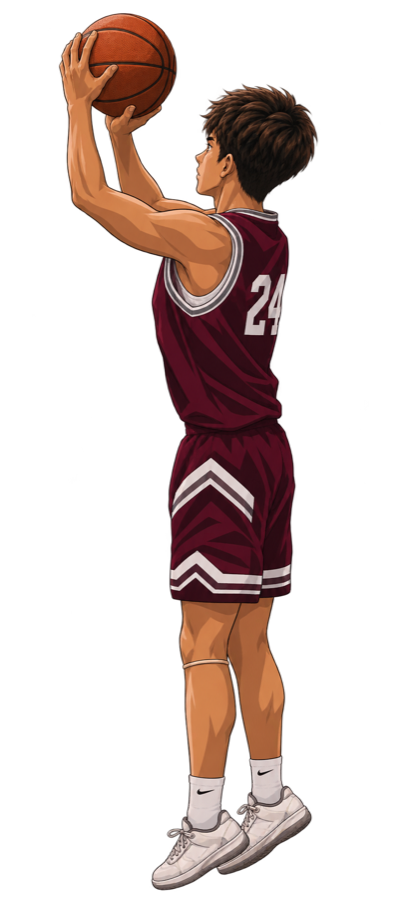
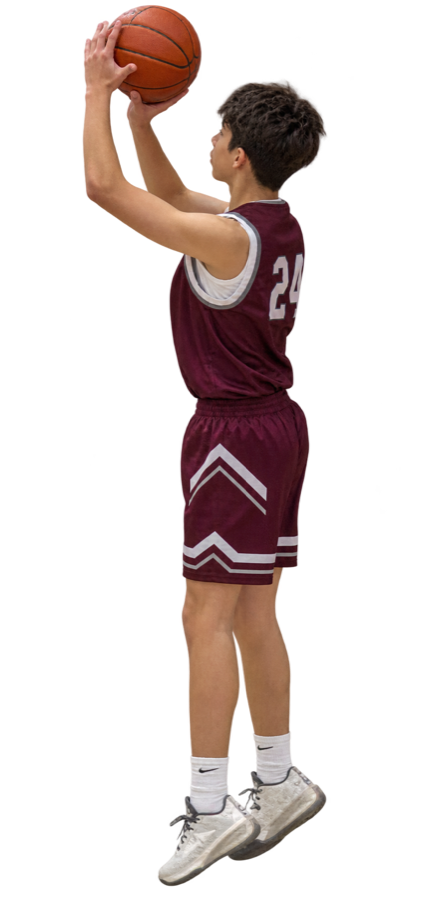
Use Rhyder's jump-shot photo in the profile header

Changed region(s): [[0.1446, 0.0, 0.7807, 0.9956]]

diff --git a/src/PublicView.tsx b/src/PublicView.tsx
@@ -34,7 +34,7 @@ export default function PublicView({ profile, games }: { profile: Profile | null
         <h1>{player?.[0] ?? 'Basketball'}<br/><em>{player?.slice(1).join(' ') || (player ? '' : 'Tracker')}</em></h1>
         {profile && <p>{profile.team}<span className="hero-dot">·</span>{profile.position}</p>}
       </div>
-      {showPortrait && <img className="hero-portrait" src={rhyderJumper} alt="Rhyder, wearing No. 24, rising for a three-point jump shot" width="415" height="900" />}
+      {showPortrait && <img className="hero-portrait" src={rhyderJumper} alt="Rhyder, wearing No. 24, rising for a three-point jump shot" width="436" height="900" />}
       {profile && <div className="jersey" aria-label={'Jersey number ' + profile.number}><span>NO.</span>{profile.number}</div>}
     </section>
     <section className="season-section" aria-labelledby="season-title">
